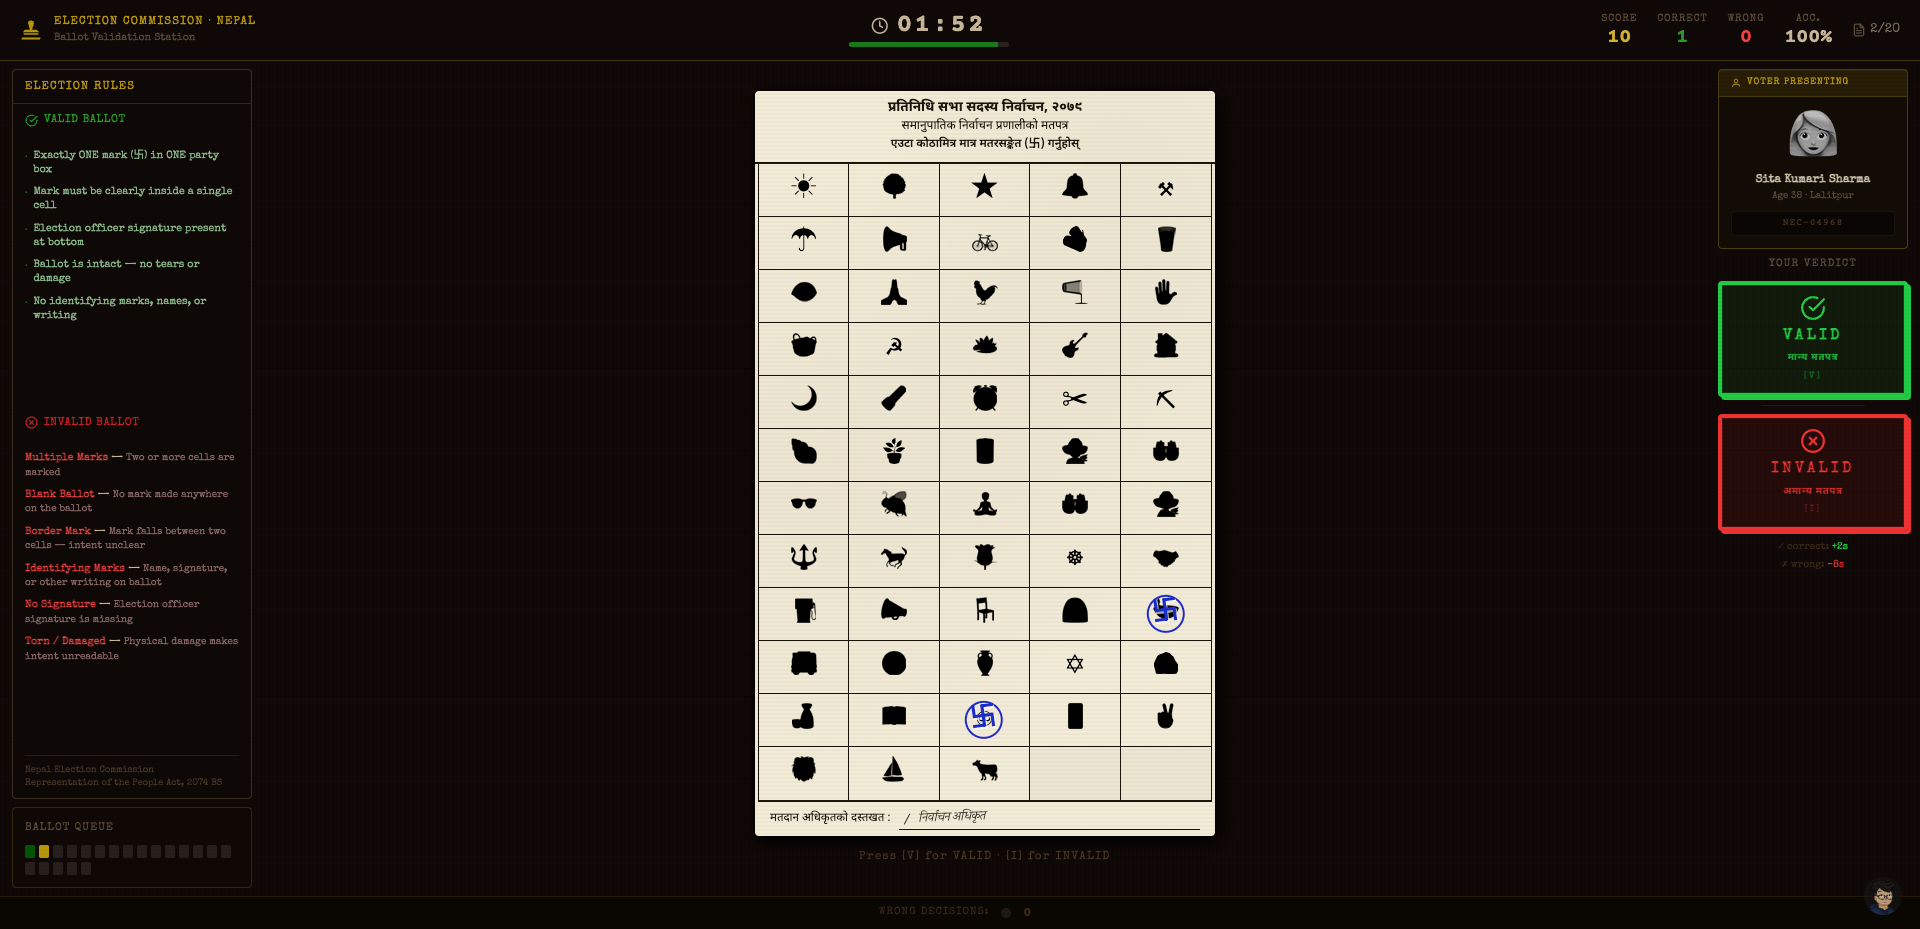
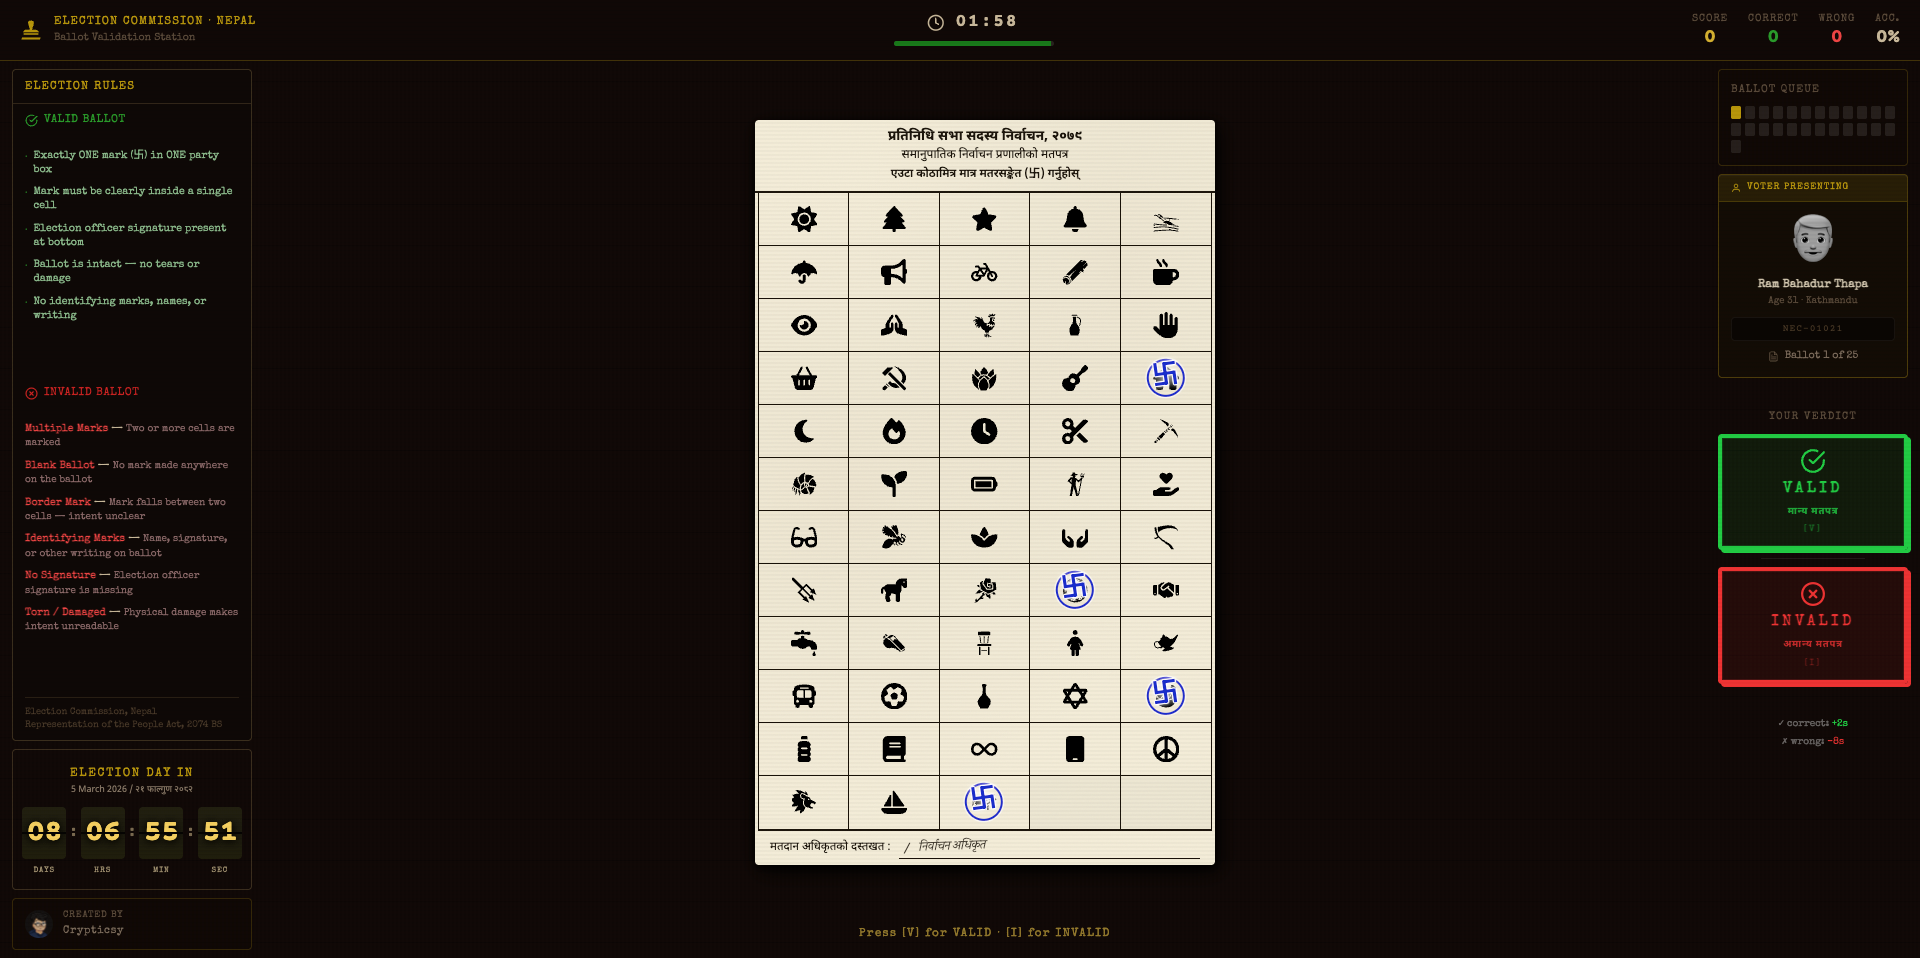
🎁 Added election day counter clock

diff --git a/src/components/FlipClock.tsx b/src/components/FlipClock.tsx
@@ -1,0 +1,130 @@
+import { useState, useEffect } from 'react';
+
+const ELECTION_DATE = new Date('2026-03-05T00:00:00+05:45');
+const CARD_H = 52;   // full card height px
+const HALF   = 26;   // each half px
+
+function pad(n: number) { return String(n).padStart(2, '0'); }
+
+function getTimeLeft() {
+  const diff = ELECTION_DATE.getTime() - Date.now();
+  if (diff <= 0) return { days: '00', hours: '00', minutes: '00', seconds: '00', over: true };
+  const d = Math.floor(diff / 86400000);
+  const h = Math.floor((diff % 86400000) / 3600000);
+  const m = Math.floor((diff % 3600000) / 60000);
+  const s = Math.floor((diff % 60000) / 1000);
+  return { days: pad(d), hours: pad(h), minutes: pad(m), seconds: pad(s), over: false };
+}
+
+const upperBg  = 'linear-gradient(180deg,#222010 0%,#1c1a0e 100%)';
+const lowerBg  = 'linear-gradient(180deg,#1c1a0e 0%,#201e0c 100%)';
+const innerH   = { height: CARD_H } as const;
+const numStyle = {
+  fontSize: '1.9rem',
+  color: '#f5d060',
+  textShadow: '0 1px 8px rgba(0,0,0,1)',
+} as const;
+
+function Half({ anchor, val }: { anchor: 'top' | 'bot'; val: string }) {
+  const isTop = anchor === 'top';
+  return (
+    <div
+      className={`absolute left-0 right-0 overflow-hidden ${isTop ? 'top-0 rounded-t' : 'bottom-0 rounded-b'}`}
+      style={{ height: HALF, background: isTop ? upperBg : lowerBg }}
+    >
+      <div
+        className={`absolute left-0 right-0 flex items-center justify-center ${isTop ? 'top-0' : 'bottom-0'}`}
+        style={innerH}
+      >
+        <span className="font-mono font-bold leading-none text-center w-full tracking-tight select-none" style={numStyle}>
+          {val}
+        </span>
+      </div>
+    </div>
+  );
+}
+
+function FlipCard({ value, label }: { value: string; label: string }) {
+  const [current, setCurrent] = useState(value);
+  const [prev,    setPrev]    = useState(value);
+  const [phase,   setPhase]   = useState(0);
+
+  useEffect(() => {
+    if (value === current) return;
+    setPrev(current);
+    setCurrent(value);
+    setPhase(1);
+    const t1 = setTimeout(() => setPhase(2), 300);
+    const t2 = setTimeout(() => setPhase(0), 580);
+    return () => { clearTimeout(t1); clearTimeout(t2); };
+  }, [value]); // eslint-disable-line react-hooks/exhaustive-deps
+
+  return (
+    <div className="flex flex-col items-center gap-1.5">
+      <div className="relative rounded" style={{ width: 44, height: CARD_H, perspective: 160 }}>
+        <Half anchor="top" val={current} />
+        <Half anchor="bot" val={current} />
+
+        {/* Crease */}
+        <div className="absolute left-0 right-0 z-[5] pointer-events-none"
+             style={{ top: HALF - 1, height: 2, background: '#050402' }} />
+
+        {/* Phase 1 — old top folds away */}
+        {phase === 1 && (
+          <div className="fc-flap-top absolute left-0 right-0 top-0 overflow-hidden rounded-t z-10"
+               style={{ height: HALF, background: upperBg,
+                        transformOrigin: 'bottom center',
+                        boxShadow: '0 6px 14px rgba(0,0,0,0.9)' }}>
+            <div className="absolute left-0 right-0 top-0 flex items-center justify-center" style={innerH}>
+              <span className="font-mono font-bold leading-none text-center w-full tracking-tight select-none" style={numStyle}>{prev}</span>
+            </div>
+          </div>
+        )}
+
+        {/* Phase 2 — new bottom rises up */}
+        {phase === 2 && (
+          <div className="fc-flap-bot absolute left-0 right-0 bottom-0 overflow-hidden rounded-b z-10"
+               style={{ height: HALF, background: lowerBg,
+                        transformOrigin: 'top center' }}>
+            <div className="absolute left-0 right-0 bottom-0 flex items-center justify-center" style={innerH}>
+              <span className="font-mono font-bold leading-none text-center w-full tracking-tight select-none" style={numStyle}>{current}</span>
+            </div>
+          </div>
+        )}
+      </div>
+
+      <span className="font-typewriter text-[0.48rem] tracking-[0.12em] uppercase text-[#a09070]">
+        {label}
+      </span>
+    </div>
+  );
+}
+
+export default function FlipClock() {
+  const [time, setTime] = useState(getTimeLeft);
+
+  useEffect(() => {
+    const id = setInterval(() => setTime(getTimeLeft()), 1000);
+    return () => clearInterval(id);
+  }, []);
+
+  return (
+    <div className="w-full flex flex-col items-center pt-4 pb-3 border border-[rgba(180,150,100,0.22)] rounded">
+      <p className="font-typewriter text-xs tracking-[0.14em] uppercase text-gold mb-0.5">
+        {time.over ? '— ELECTION DAY —' : 'ELECTION DAY IN'}
+      </p>
+      <p className="font-nepali text-[0.56rem] text-[#8a7a68] mb-2.5">
+        5 March 2026 / २१ फाल्गुण २०८२
+      </p>
+      <div className="flex items-start justify-center gap-0.5">
+        <FlipCard value={time.days}    label="DAYS" />
+        <span className="font-mono font-bold text-[1.1rem] text-[#7a6a50] leading-none self-center mb-[18px]">:</span>
+        <FlipCard value={time.hours}   label="HRS"  />
+        <span className="font-mono font-bold text-[1.1rem] text-[#7a6a50] leading-none self-center mb-[18px]">:</span>
+        <FlipCard value={time.minutes} label="MIN"  />
+        <span className="font-mono font-bold text-[1.1rem] text-[#7a6a50] leading-none self-center mb-[18px]">:</span>
+        <FlipCard value={time.seconds} label="SEC"  />
+      </div>
+    </div>
+  );
+}

diff --git a/src/components/GameScreen.tsx b/src/components/GameScreen.tsx
@@ -7,6 +7,7 @@ import RulesReference from "./RulesReference";
 import FeedbackOverlay from "./FeedbackOverlay";
 import { FiCheckCircle, FiXCircle, FiFileText, FiUser } from "react-icons/fi";
 import { GiStamper } from "react-icons/gi";
+import FlipClock from "./FlipClock";
 
 const TOTAL_BALLOTS = 25;
 const INITIAL_TIME = 120;
@@ -326,6 +327,8 @@ export default function GameScreen({ onEnd }: Props) {
         {/* Left sidebar — desktop only */}
         <div className="hidden md:flex shrink-0 flex-col gap-2 w-60">
           <RulesReference />
+
+          <FlipClock />
 
           {/* Creator credit */}
           <a

diff --git a/src/index.css b/src/index.css
@@ -304,6 +304,19 @@
   -ms-overflow-style: none;
 }
 
+/* ── Flip Clock — only keyframes needed; all other styles are Tailwind ── */
+.fc-flap-top { animation: fcTopAway 0.3s ease-in  forwards; }
+.fc-flap-bot { animation: fcBotIn   0.28s ease-out forwards; }
+
+@keyframes fcTopAway {
+  from { transform: rotateX(0deg);   }
+  to   { transform: rotateX(-90deg); }
+}
+@keyframes fcBotIn {
+  from { transform: rotateX(90deg);  }
+  to   { transform: rotateX(0deg);   }
+}
+
 /* ── Mobile overrides ── */
 @media (max-width: 767px) {
   body {

diff --git a/src/components/StartScreen.tsx b/src/components/StartScreen.tsx
@@ -157,6 +157,7 @@ export default function StartScreen({ onStart }: Props) {
               <span className="text-[#7a6a5a]">[I] — Invalid</span>
             </p>
           </div>
+
         </div>
       </div>
 
